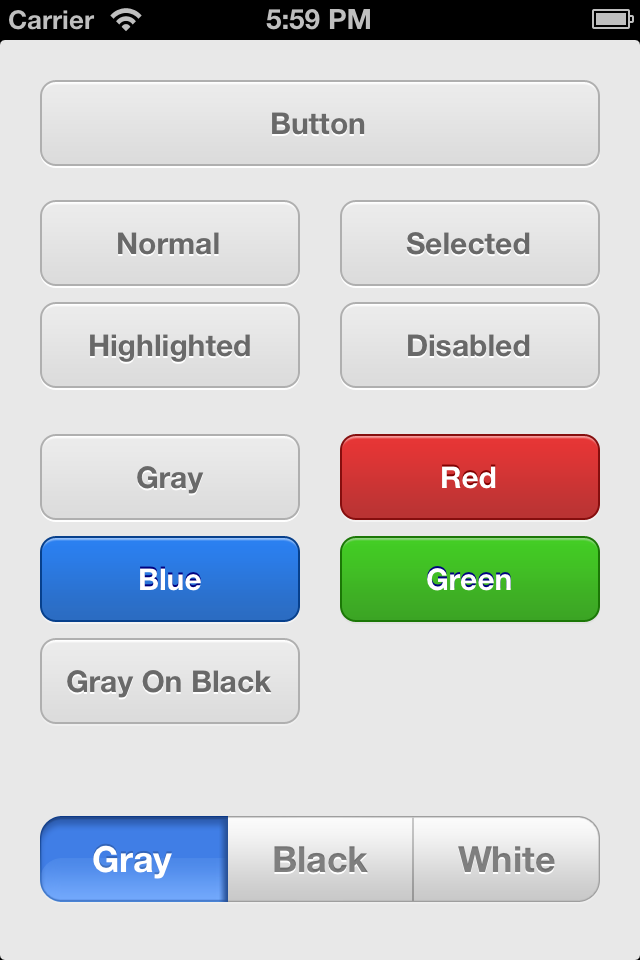
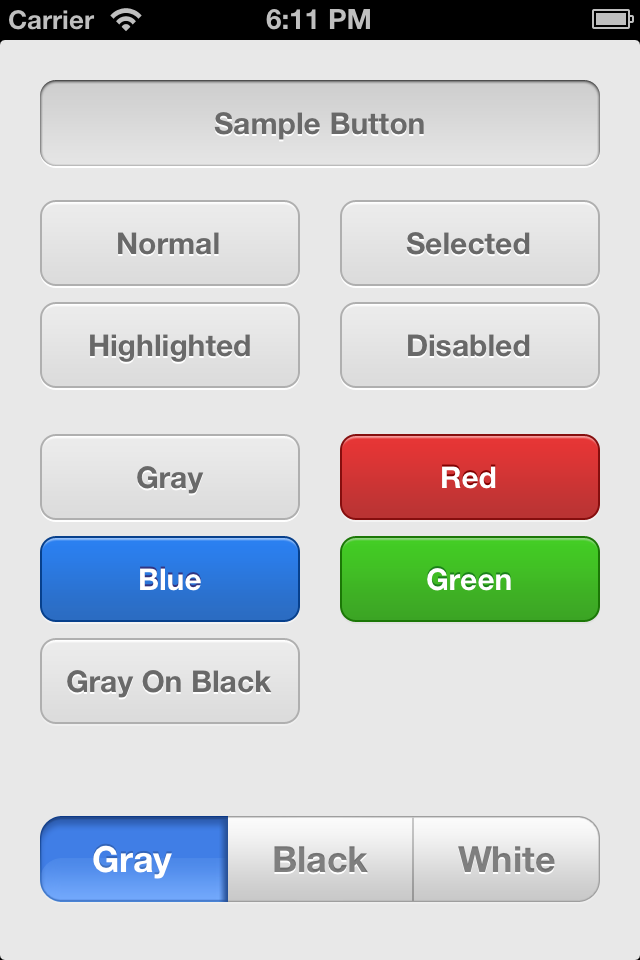
fixing and softening the shadow colors for the colored buttons

diff --git a/J1Button/J1Button.m b/J1Button/J1Button.m
@@ -141,7 +141,7 @@
     [self setTitleColor:[UIColor colorWithWhite:.8 alpha:1] forState:UIControlStateHighlighted];
     [self setTitleColor:[UIColor colorWithWhite:.7 alpha:1] forState:UIControlStateSelected];
     
-    [self setTitleShadowColor:[UIColor colorWithRed:0 green:0 blue:.5 alpha:1] forState:UIControlStateNormal];
+    [self setTitleShadowColor:[UIColor colorWithRed:.2 green:.2 blue:.5 alpha:1] forState:UIControlStateNormal];
     
 }
 - (void)setGreenStyle
@@ -161,7 +161,7 @@
     [self setTitleColor:[UIColor colorWithWhite:.8 alpha:1] forState:UIControlStateHighlighted];
     [self setTitleColor:[UIColor colorWithWhite:.7 alpha:1] forState:UIControlStateSelected];
     
-    [self setTitleShadowColor:[UIColor colorWithRed:0 green:0 blue:.5 alpha:1] forState:UIControlStateNormal];
+    [self setTitleShadowColor:[UIColor colorWithRed:.1 green:.5 blue:.1 alpha:1] forState:UIControlStateNormal];
     
 }
 @end
